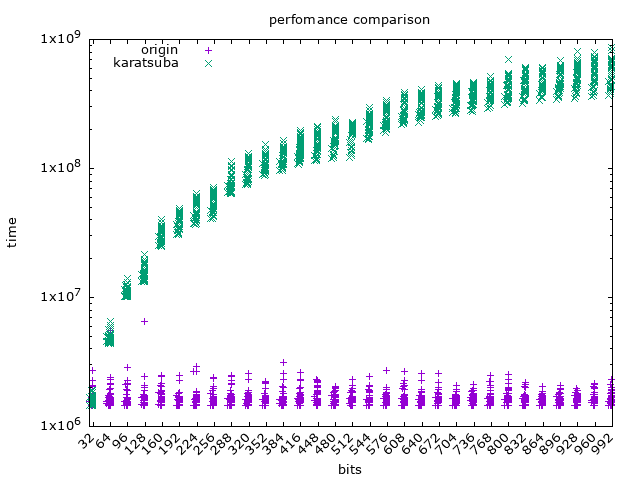
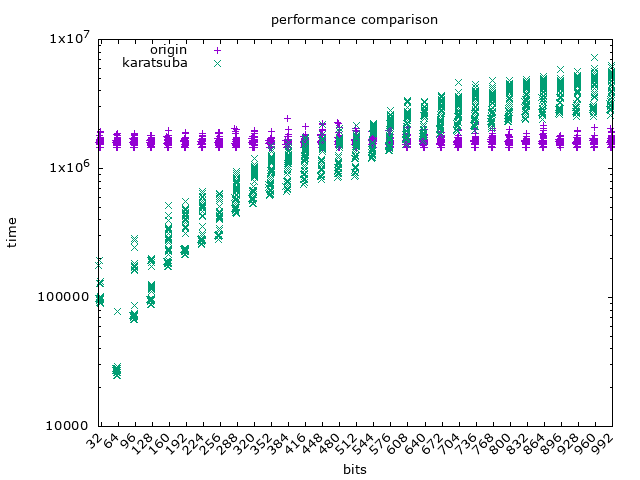
Improve performance of karatsuba mul

Changed region(s): [[0.0625, 0.0625, 0.9688, 1.0], [0.4062, 0.0312, 0.6875, 0.0625], [0.2812, 0.75, 0.3125, 0.7812]]

diff --git a/q6.c b/q6.c
@@ -345,9 +345,39 @@ void bn_left_shift(bn_t *a, int offset) {
 static void karatsuba_mul(bn_t *a, bn_t *b, bn_t *c) {
     int m1 = bn_size(a);
     int m2 = bn_size(b);
+    bn_init(c);
     // printf("m1=%d,m2=%d\n",m1,m2);
-    if (m1 <= 1 || m2 <= 1) {
-        bn_mul(a, b, c);
+    if (m1 <= 1 && m2 <= 1) {
+        UTYPE_TMP intermediate = a->array[0] * (UTYPE_TMP)b->array[0];
+        bn_from_int(c, intermediate);
+        return;
+    }else if(m1 <= 1){
+        bn_t row ,tmp;
+        bn_init(&row);
+        for (int j = 0; j < BN_ARRAY_SIZE; ++j) {
+            bn_init(&tmp);
+            UTYPE_TMP intermediate = a->array[0] * (UTYPE_TMP)b->array[j];
+            bn_from_int(&tmp, intermediate);
+            lshift_unit(&tmp, j);
+            bn_add(&tmp, &row, &row);
+        }
+        bn_add(c, &row, c);
+        //bn_mul(a,b,c);
+        return;
+    }else if( m2 <=1){
+        bn_t row ,tmp;
+        bn_init(&row);
+        for (int j = 0; j < BN_ARRAY_SIZE; ++j) {
+            if ( j < BN_ARRAY_SIZE) {
+                bn_init(&tmp);
+                UTYPE_TMP intermediate = a->array[j] * (UTYPE_TMP)b->array[0];
+                bn_from_int(&tmp, intermediate);
+                lshift_unit(&tmp, j);
+                bn_add(&tmp, &row, &row);
+            }
+        }
+        bn_add(c, &row, c);
+        //bn_mul(a,b,c);
         return;
     }
 

diff --git a/test.c b/test.c
@@ -29,8 +29,8 @@ int main(int argc, char *argv[]) {
     srand(time(NULL));
 
     FILE *fp1, *fp2;
-    fp1 = fopen("origin.txt", "a");
-    fp2 = fopen("karatsuba.txt","a");
+    fp1 = fopen("origin.txt", "w");
+    fp2 = fopen("karatsuba.txt","w");
 
     for (int k = 0; k < 50; k++) {
         uint32_t rand_n = rand();
